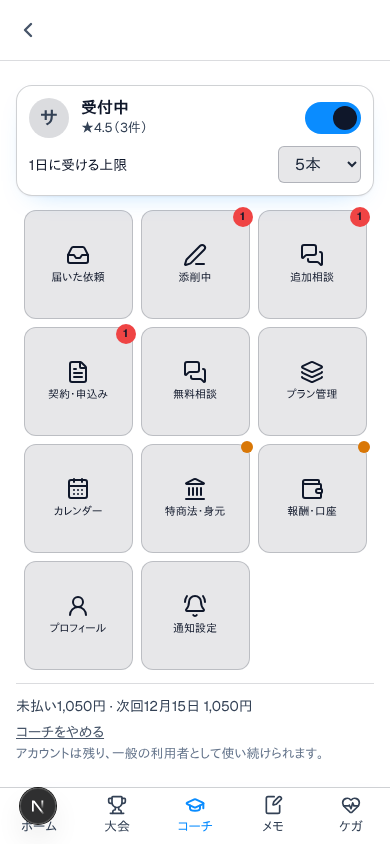
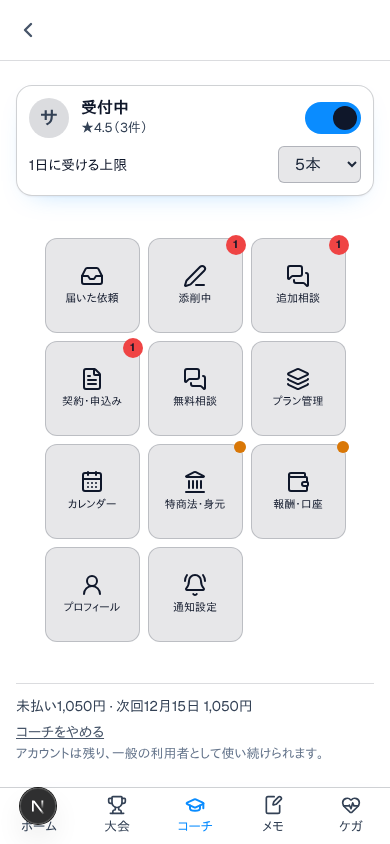
コーチ画面のタイルの大きさを期限アラート帯の有無で変えない（#563）
運営者の指示で、タイルは常に期限アラート帯が出ている時の大きさにする。帯が出ていない時も
帯1行ぶん（46px ＋ 間 12px）を枠の高さから差し引いて一辺を決め、タイル群は枠の中央に置く。
帯の有無で大きさが変わらないことを確かめるブラウザテストを追加し、スクリーンショットを更新。

Claude-Session: https://claude.ai/code/session_01R5sRaToqtwutzKQ89NeLuv

diff --git a/apps/web/app/coach/coach-dashboard.tsx b/apps/web/app/coach/coach-dashboard.tsx
@@ -99,18 +99,21 @@ function Tile({
 
 // タイルの枠（スマホ幅では残りの高さいっぱい）の幅と高さを測り、3列×4行に収まる正方形の一辺を決める（本体 #563）。
 // 枠の高さが中身で決まらない形なので、CSS のコンテナ単位ではなく実寸で測る。PC 幅は CSS の3等分のまま（globals.css の .coach-tiles）。
+// タイルの大きさは期限アラート帯の有無で変えない（運営者指示 2026-11-12）。帯が出ていない時も、帯1行ぶん
+// （枠線つき p-3 の1行 46px ＋ 間 12px）を高さから差し引いて決める。帯が2行に折り返す狭い画面では、帯がある時のほうが少し小さくなる。
 const tileGap = 8;
-function CoachTiles({ label, children }: { label: string; children: ReactNode }) {
+const alertReserve = 58;
+function CoachTiles({ label, reserve, children }: { label: string; reserve: number; children: ReactNode }) {
   const [side, setSide] = useState<number | null>(null);
   const ref = useCallback((el: HTMLDivElement | null) => {
     if (!el || typeof ResizeObserver === "undefined") return;
     const observer = new ResizeObserver(() => {
       const { width, height } = el.getBoundingClientRect();
-      setSide(Math.max(0, Math.floor(Math.min((width - tileGap * 2) / 3, (height - tileGap * 3) / 4))));
+      setSide(Math.max(0, Math.floor(Math.min((width - tileGap * 2) / 3, (height - reserve - tileGap * 3) / 4))));
     });
     observer.observe(el);
     return () => observer.disconnect();
-  }, []);
+  }, [reserve]);
   return (
     <div ref={ref} className="coach-tiles">
       <nav aria-label={label} className="grid gap-2" style={side ? ({ "--coach-tile": `${side}px` } as CSSProperties) : undefined}>
@@ -296,7 +299,7 @@ export function CoachDashboard() {
         </Link>
       ) : null}
 
-      <CoachTiles label={t(locale, "coach.menu")}>
+      <CoachTiles label={t(locale, "coach.menu")} reserve={offerCount > 0 ? 0 : alertReserve}>
         <Tile locale={locale} href="/coach/offers" label={t(locale, "coach.tile.offers")} Icon={Inbox} badge={offerCount} />
         <Tile locale={locale} href="/coach/reviewing" label={t(locale, "coach.tile.reviewing")} Icon={PenLine} badge={reviewingCount} />
         <Tile locale={locale} href="/coach/consultations" label={t(locale, "coach.tile.consultations")} Icon={MessagesSquare} badge={consultations} />

diff --git a/apps/web/e2e/coach-launcher.spec.ts b/apps/web/e2e/coach-launcher.spec.ts
@@ -119,3 +119,14 @@ test("PC 幅では広げず、3列の正方形のタイルを上から並べる"
   expect(Math.max(...m.squareDiffs)).toBeLessThanOrEqual(1);
   expect(m.rowTops[0] - m.gridTop).toBeLessThanOrEqual(1);
 });
+
+test("タイルの大きさは期限アラート帯の有無で変わらない（390×844）", async ({ page }) => {
+  await page.setViewportSize({ width: 390, height: 844 });
+  await setup(page, false);
+  const without = await measure(page);
+  const withAlertPage = await page.context().newPage();
+  await withAlertPage.setViewportSize({ width: 390, height: 844 });
+  await setup(withAlertPage, true);
+  const withAlert = await measure(withAlertPage);
+  expect(Math.abs(without.tileHeights[0] - withAlert.tileHeights[0])).toBeLessThanOrEqual(1);
+});
